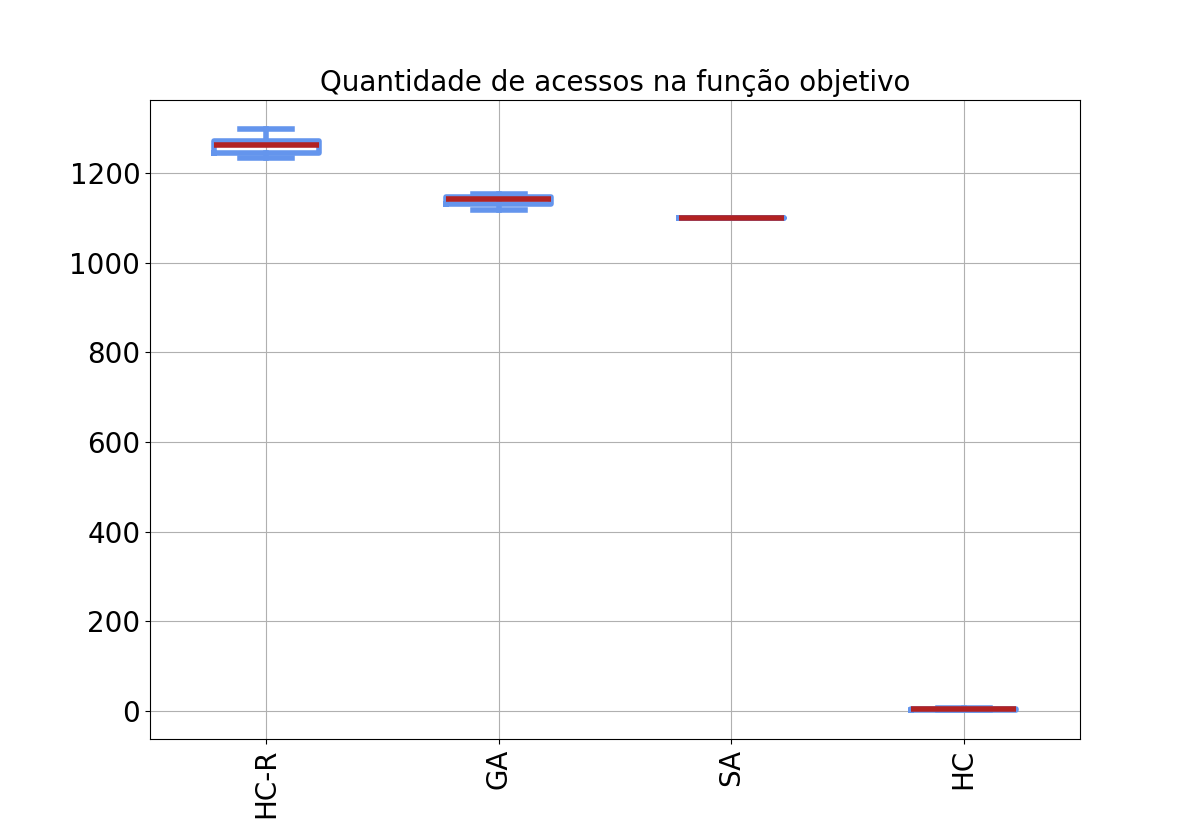
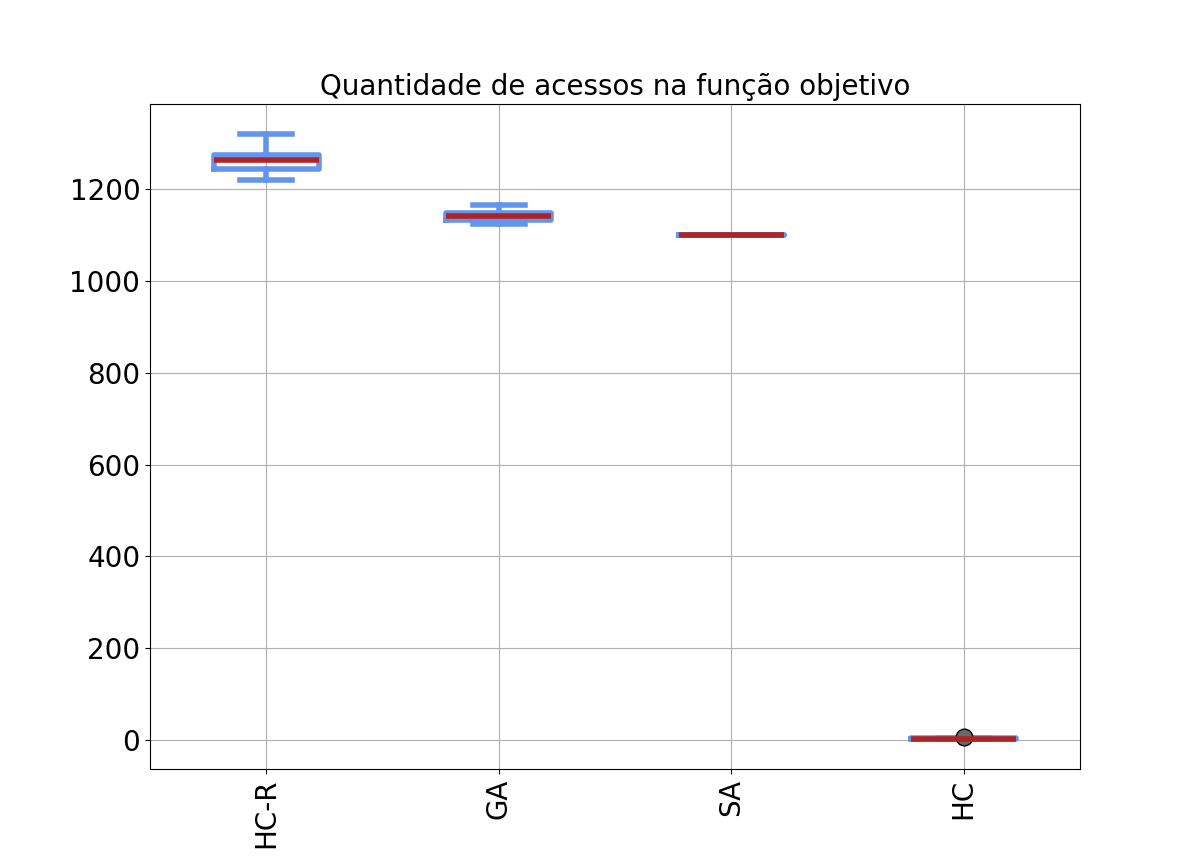
Atualizacao dos boxplot

diff --git a/plot_box_from_file.py b/plot_box_from_file.py
@@ -1,15 +1,15 @@
 import pandas as pd
 import plots
 
-df = pd.read_csv('df_hit_func_objetivo_tsp.csv', index_col='ALGORITMO')
+dados = [
+            ['df_custos_tsp.csv','Custo dos algorítmos'],
+            ['df_hit_func_objetivo_tsp.csv','Quantidade de acessos na função objetivo'],
+            ['df_tempo_tsp.csv','Tempo de execução (ms)'],
+            ['df_custos_rastrigin.csv','Custo dos algorítmos'],
+            ['df_hit_func_objetivo_rastrigin.csv','Quantidade de acessos na função objetivo'],
+            ['df_tempo_rastrigin.csv','Tempo de execução (ms)'],
+        ]
 
-
-
-plots.boxplot_sorted(df,"Quantidade de acessos na função objetivo")
-
-df = pd.read_csv('df_hit_func_objetivo_rastrigin.csv', index_col='ALGORITMO')
-
-
-
-plots.boxplot_sorted(df,"Quantidade de acessos na função objetivo")
-
+for file, title in dados:
+    df = pd.read_csv(file, index_col='ALGORITMO')
+    plots.boxplot_sorted(df,title)
